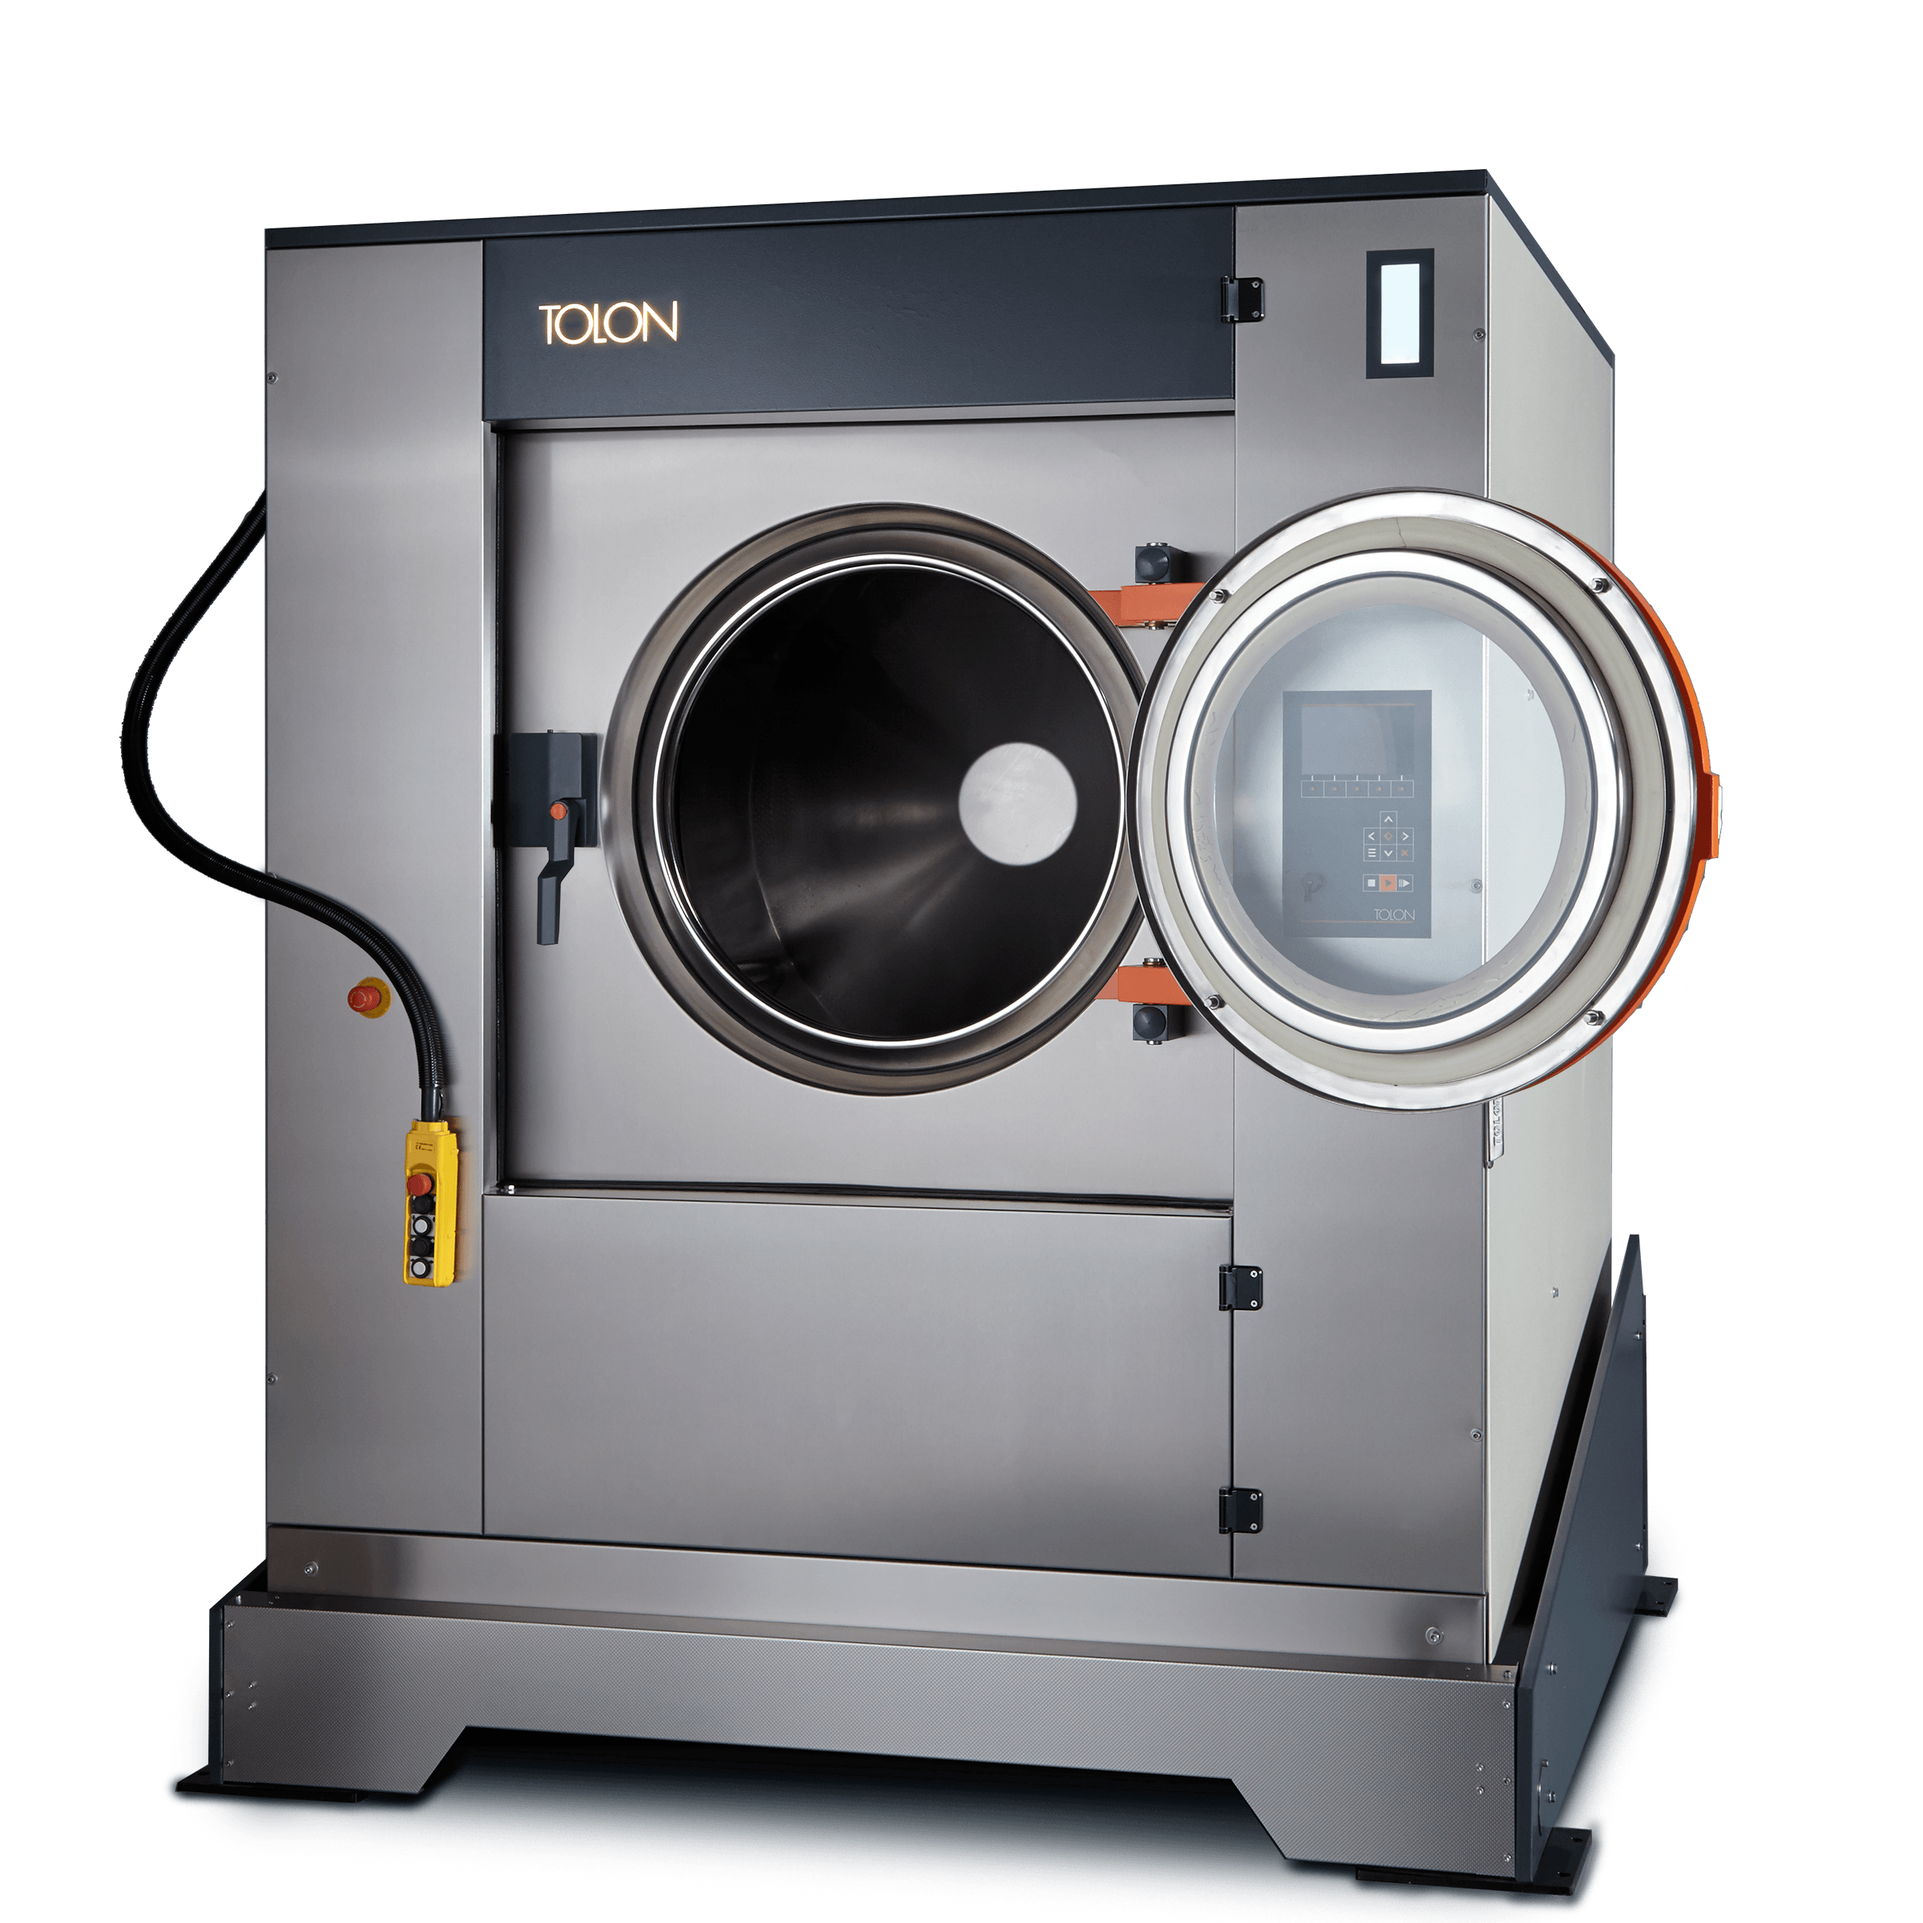
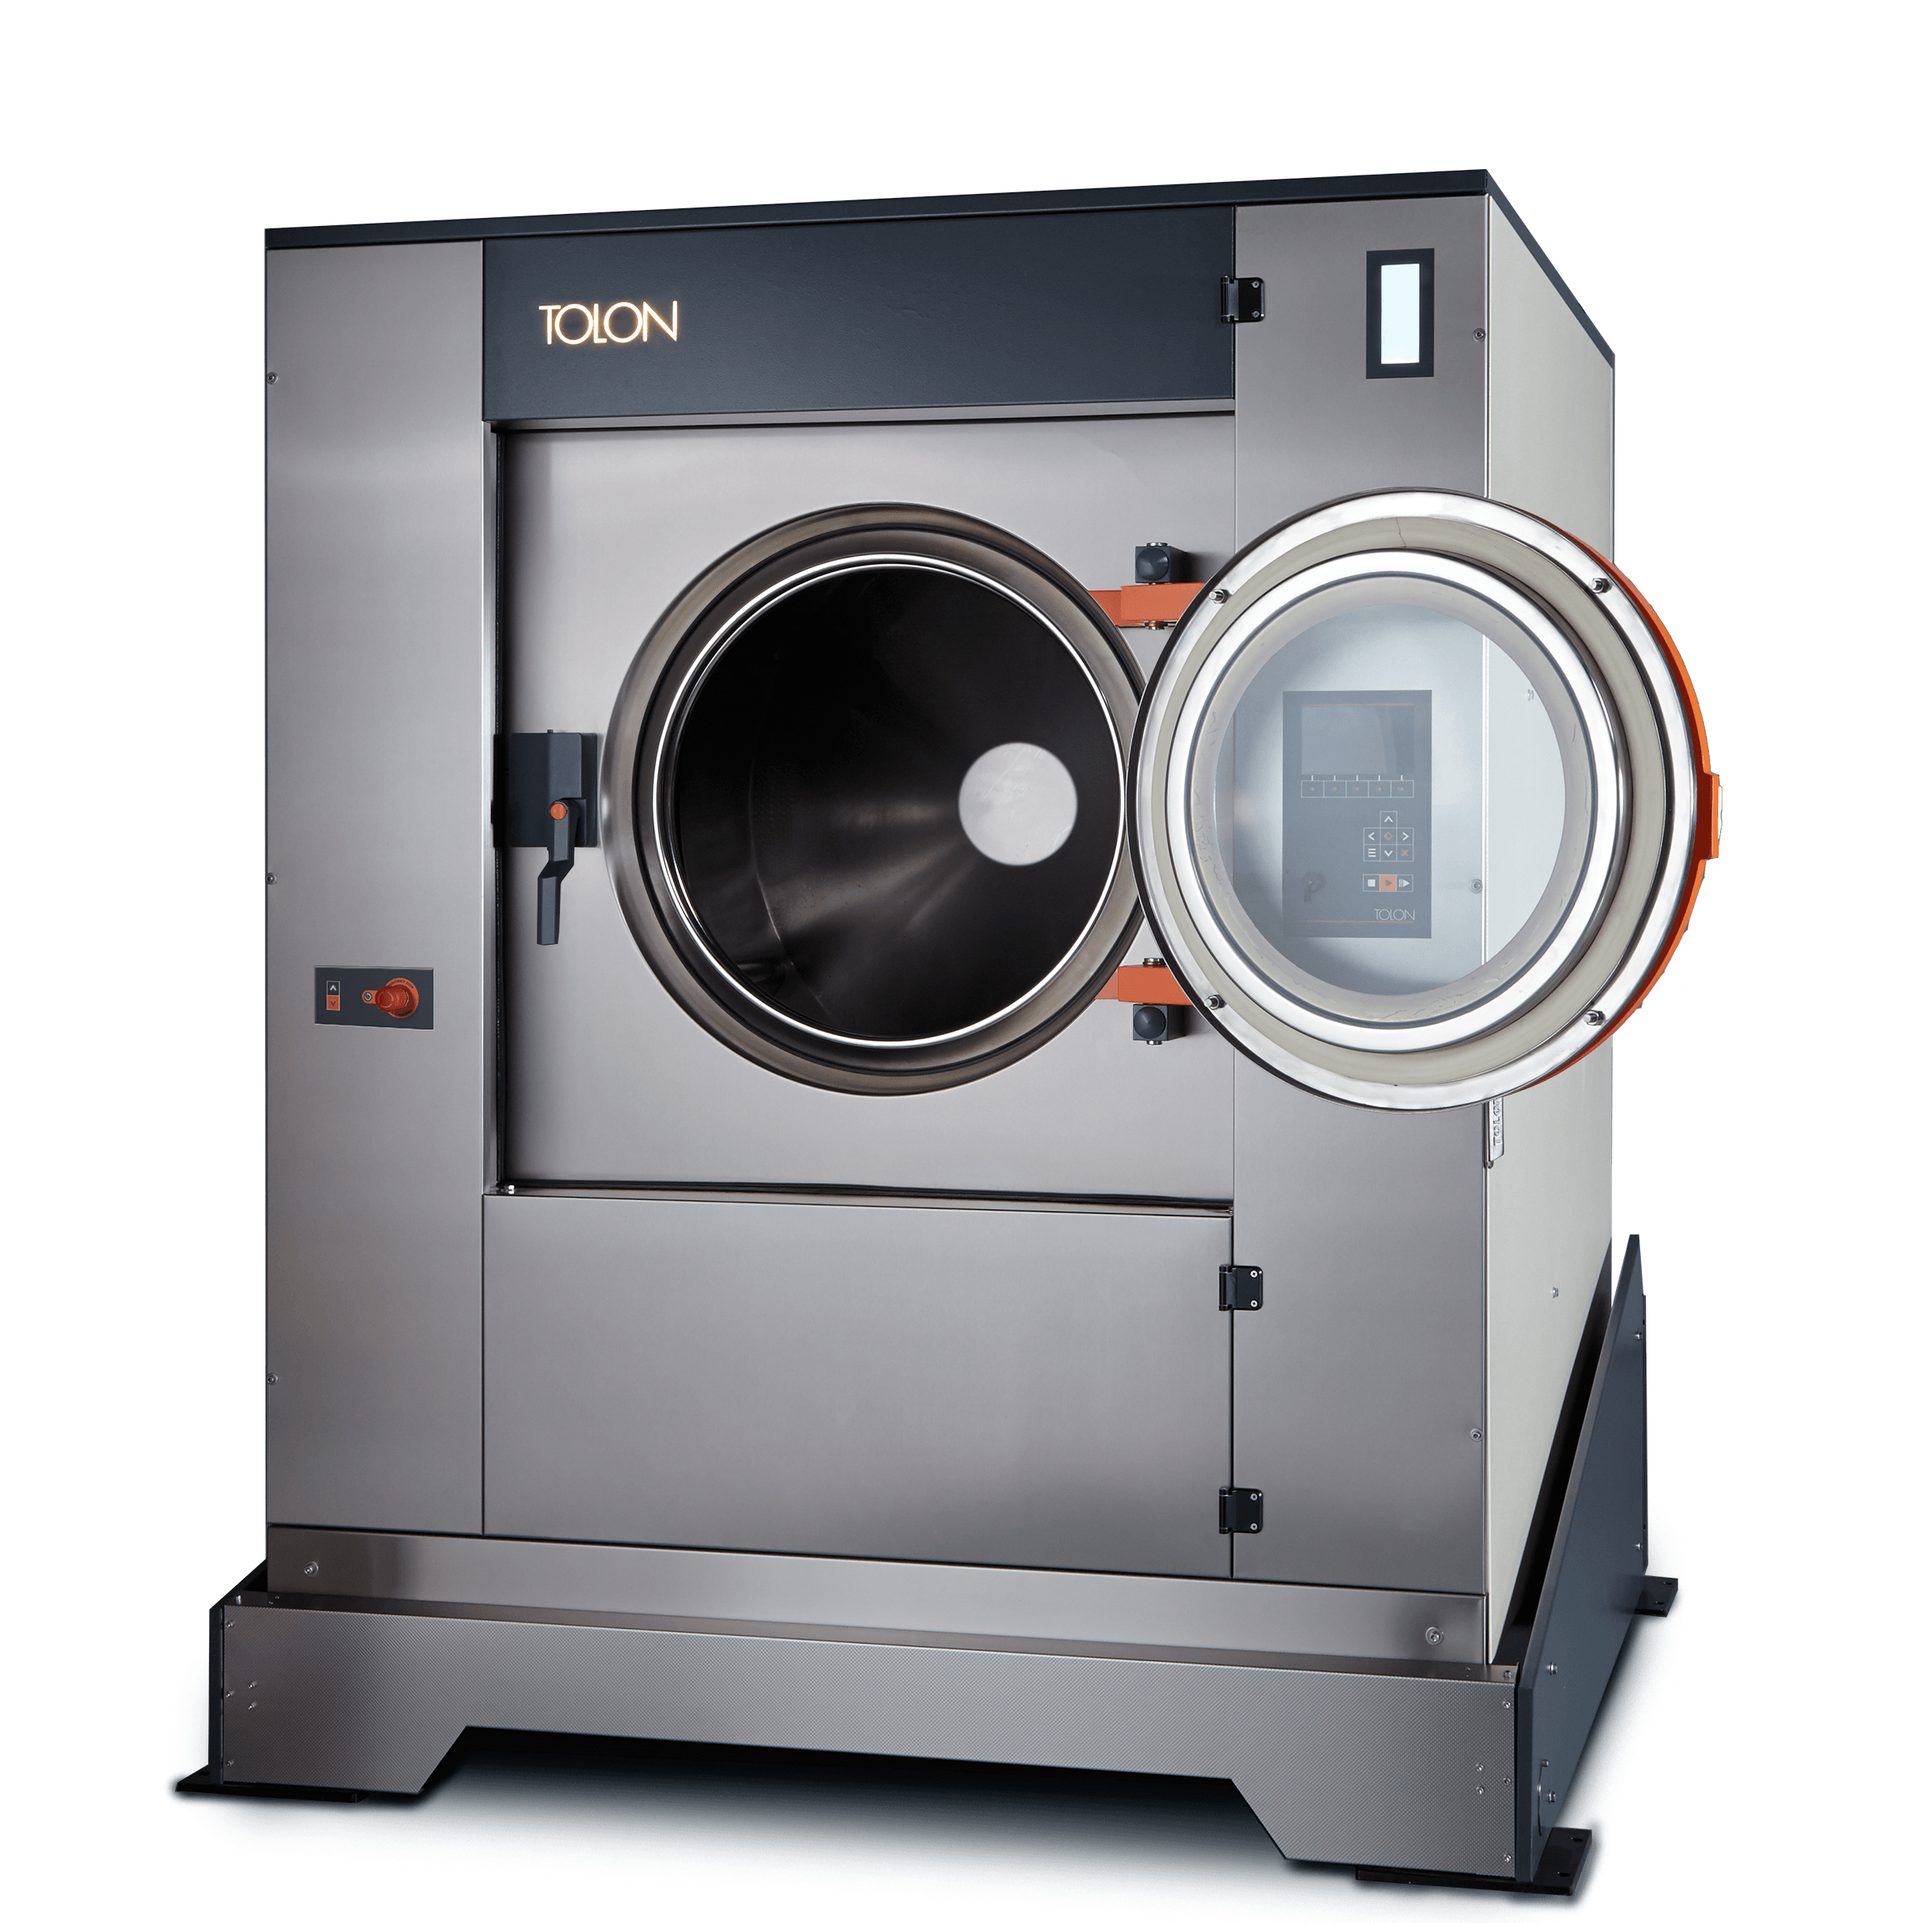
TWE XL yeni devirme kontrol paneli

Changed region(s): [[0.0938, 0.4375, 0.25, 0.6875], [0.0625, 0.2812, 0.125, 0.4375], [0.125, 0.25, 0.1562, 0.2812]]

diff --git a/twe-xl.html b/twe-xl.html
@@ -74,15 +74,16 @@
                     <div style="top: 520px; left: 760px;" class="fragment" data-zoom="4">
                         <h4>Konik tambur ağzı</h4><h6>Kolay boşaltma</h6>
                     </div>
-                    <div style="top: 720px; left: 520px;" class="fragment">
-                        <h4>Bağımsız devirme kumandası</h4><h6>Güvenli ve hızlı boşaltma</h6>
-                    </div>
 			    </section>
 			    <section>
 			        <img src="images/twe110_0003_on-yatik.png" alt="">
 			        <div style="top: 510px; left: 280px;">
                         <h4>12° eğilme</h4>
-                        <h6>Hızlı boşaltma</h6>
+                        <h6>Kolay ve hızlı boşaltma</h6>
+                    </div>
+                    <div style="top: 720px; left: 520px;" class="fragment">
+                        <h4>Bağımsız devirme kumanda paneli</h4>
+                        <h6>Güvenli ve pratik</h6>
                     </div>
 			    </section>
 			    <section>

diff --git a/en/twe-xl.html b/en/twe-xl.html
@@ -74,15 +74,15 @@
                     <div style="top: 520px; left: 760px;" class="fragment" data-zoom="4">
                         <h4>Conical drum face</h4><h6>Easy unloading</h6>
                     </div>
-                    <div style="top: 720px; left: 520px;" class="fragment">
-                        <h4>Independent tilting controls</h4><h6>Easy &amp; safe unloading</h6>
-                    </div>
 			    </section>
 			    <section>
 			        <img src="../images/twe110_0003_on-yatik.png" alt="">
 			        <div style="top: 510px; left: 280px;">
                         <h4>12° tilt</h4>
-                        <h6>Quick unloading</h6>
+                        <h6>Quick &amp; easy unloading</h6>
+                    </div>
+                    <div style="top: 720px; left: 520px;" class="fragment">
+                        <h4>Independent tilting controls</h4><h6>Safe &amp; practical</h6>
                     </div>
 			    </section>
 			    <section>
